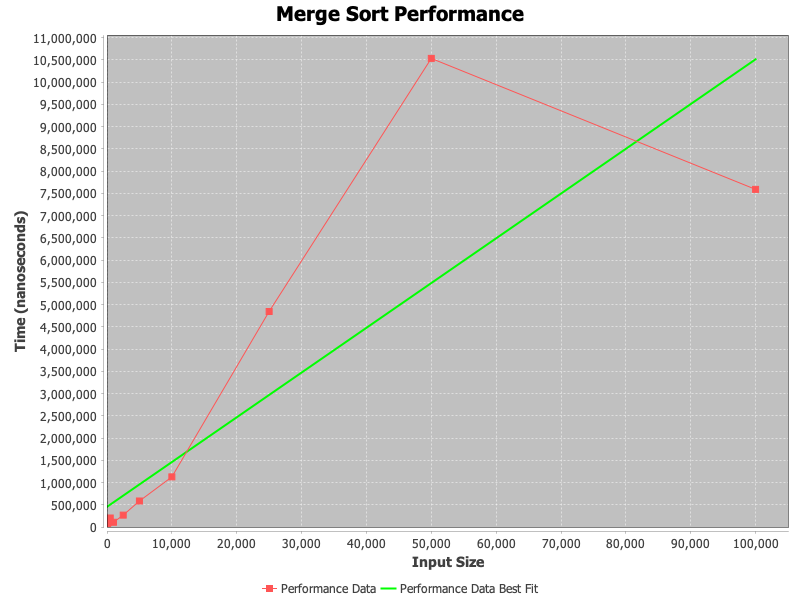
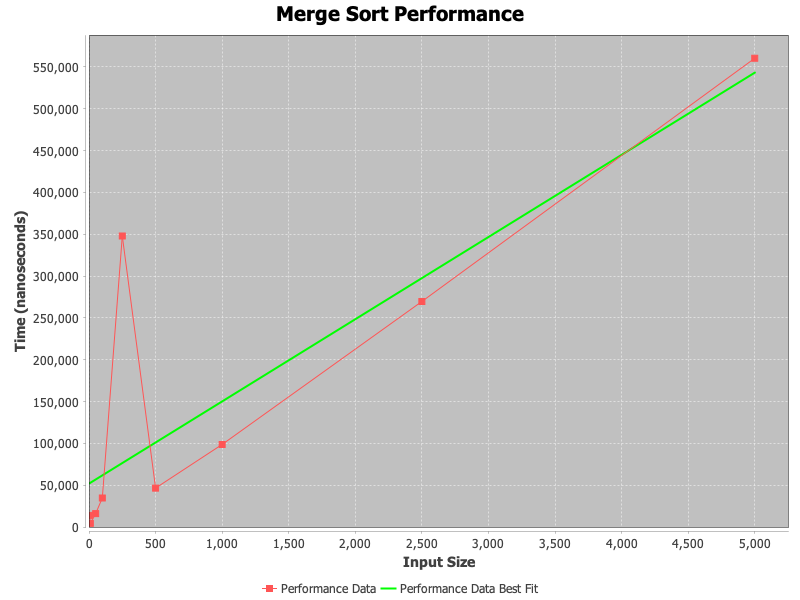
make inputs less so things are good, and we have a good chart

diff --git a/assignment1/src/Main.java b/assignment1/src/Main.java
@@ -22,7 +22,7 @@ import java.util.Random;
 
 public class Main {
     public static void main(String[] args) {
-        int[] inputSizes = {5, 10, 50, 100, 250, 500, 1000, 2500, 5000, 10000, 25000, 50000, 100000};
+        int[] inputSizes = {5, 10, 50, 100, 250, 500, 1000, 2500, 5000};
 
         int[][] testArrays = generateTestArrays(inputSizes);
 
